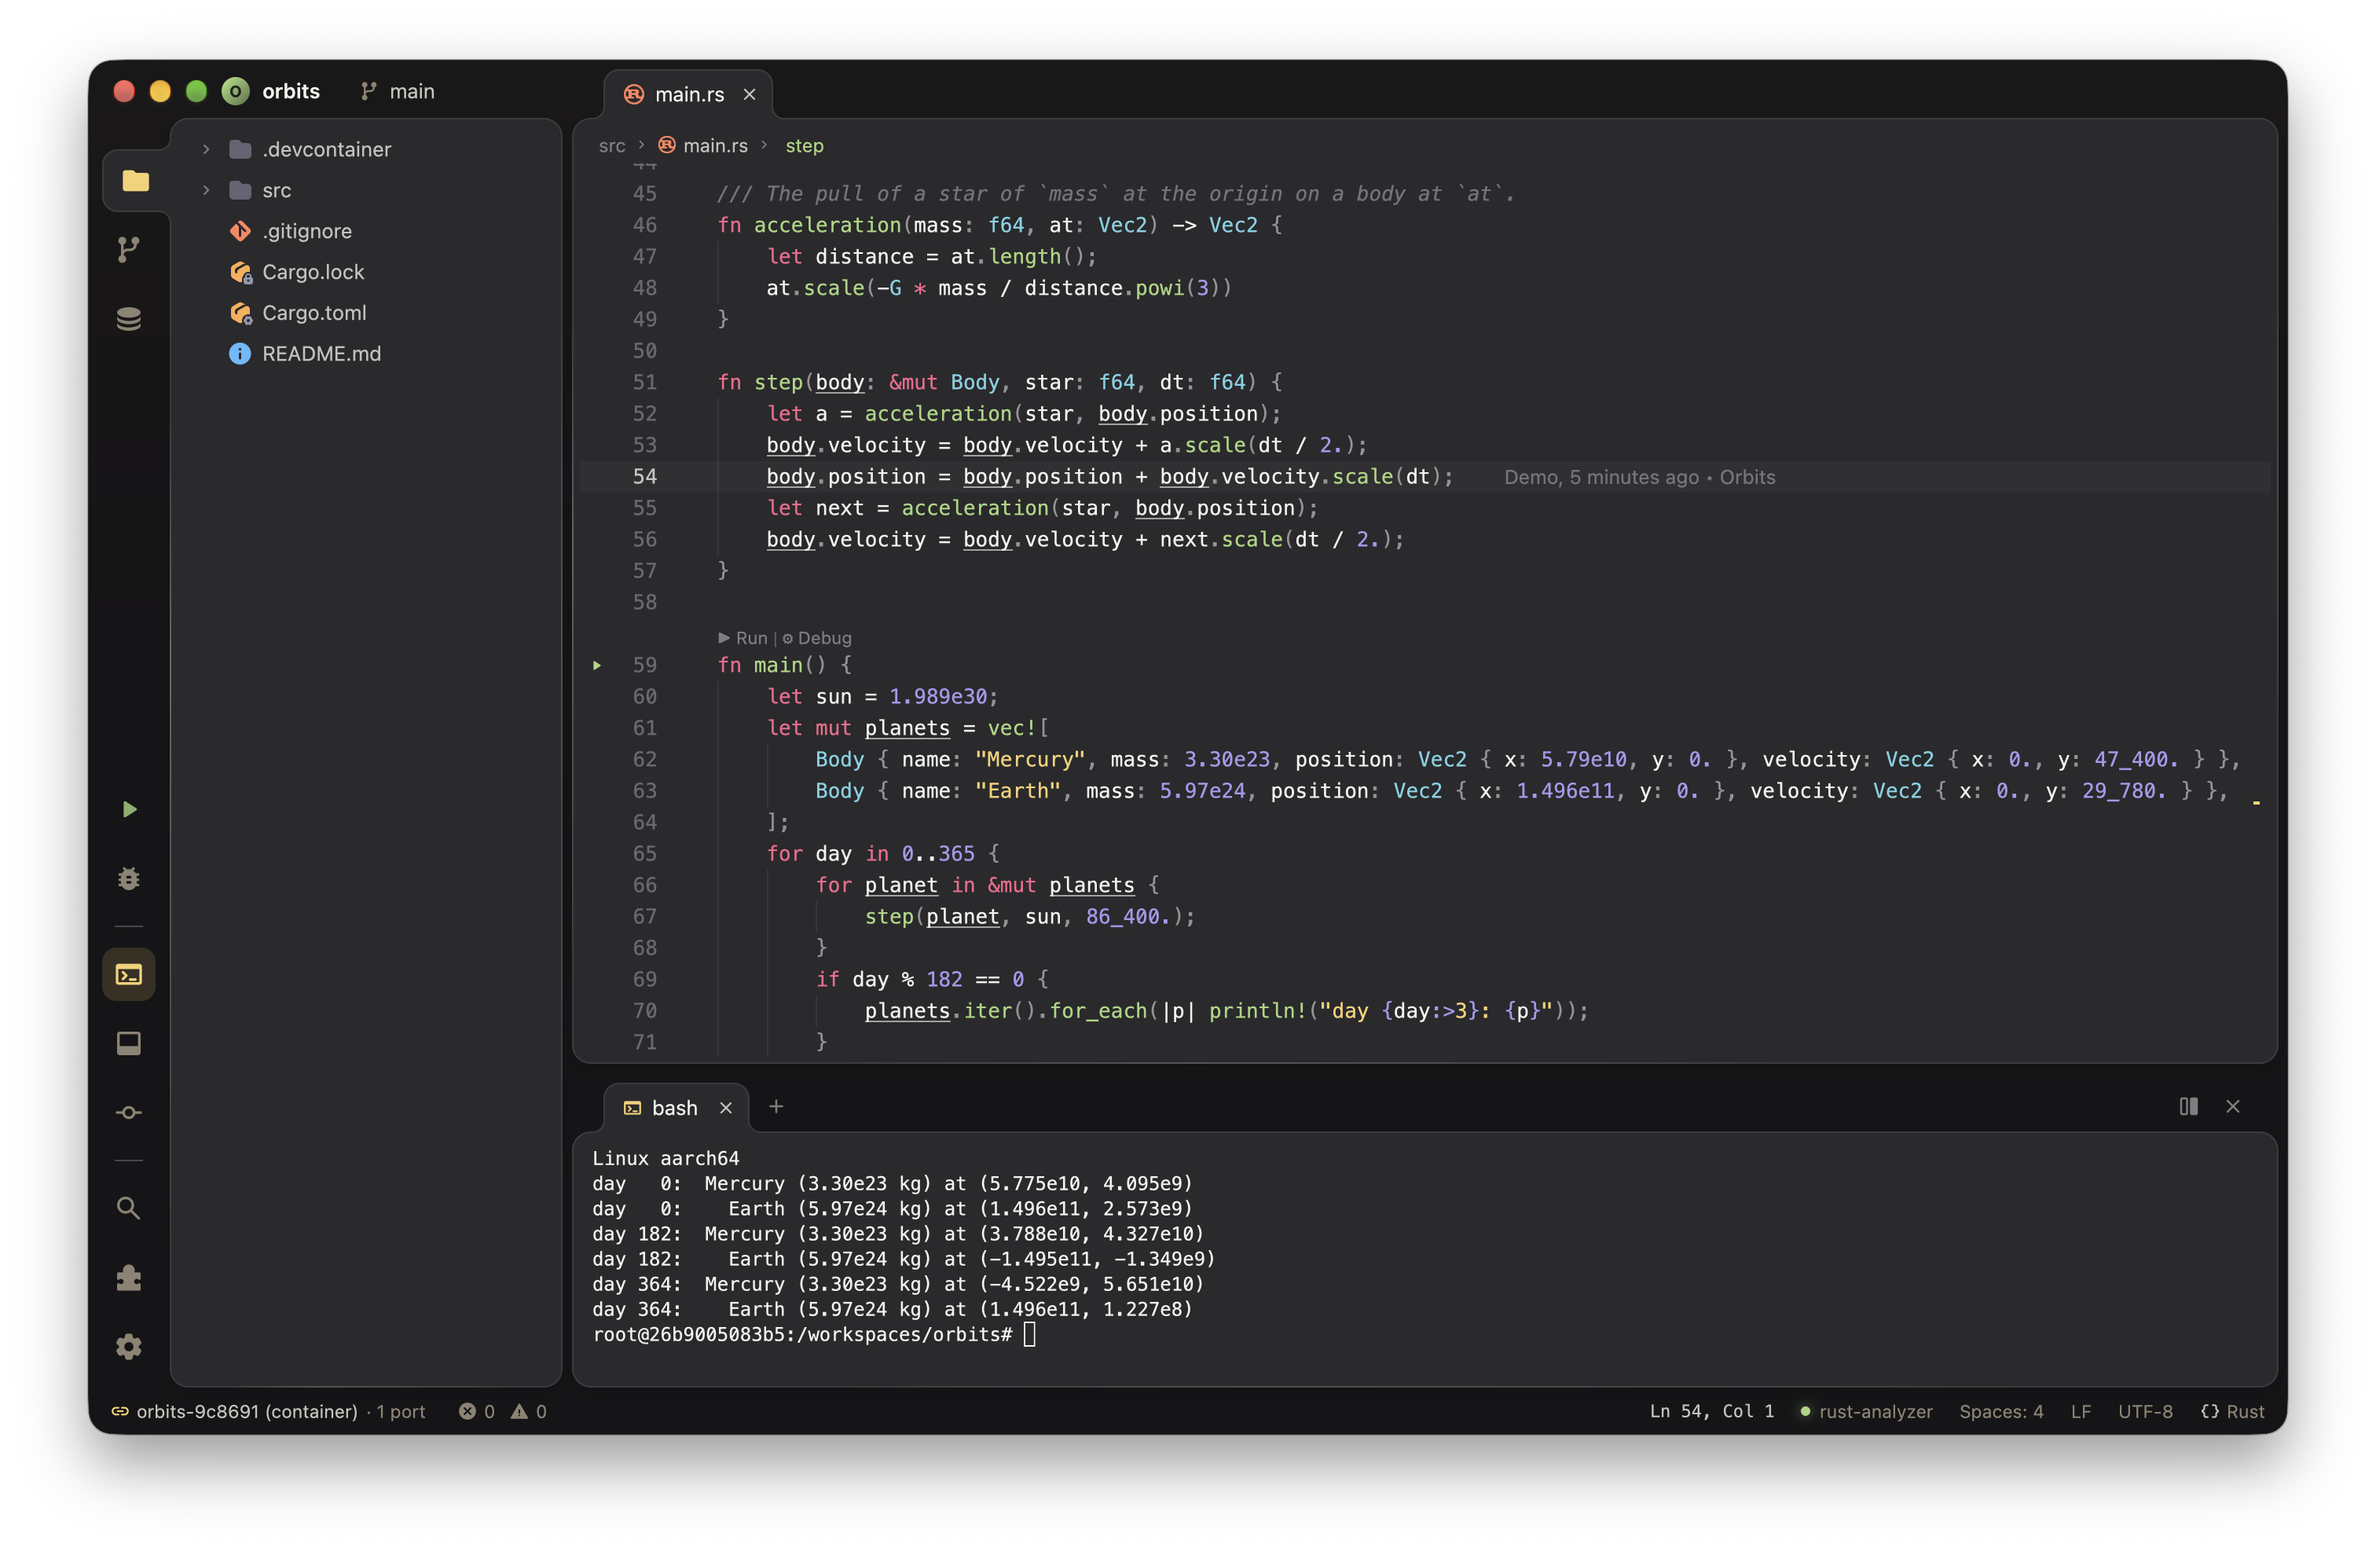
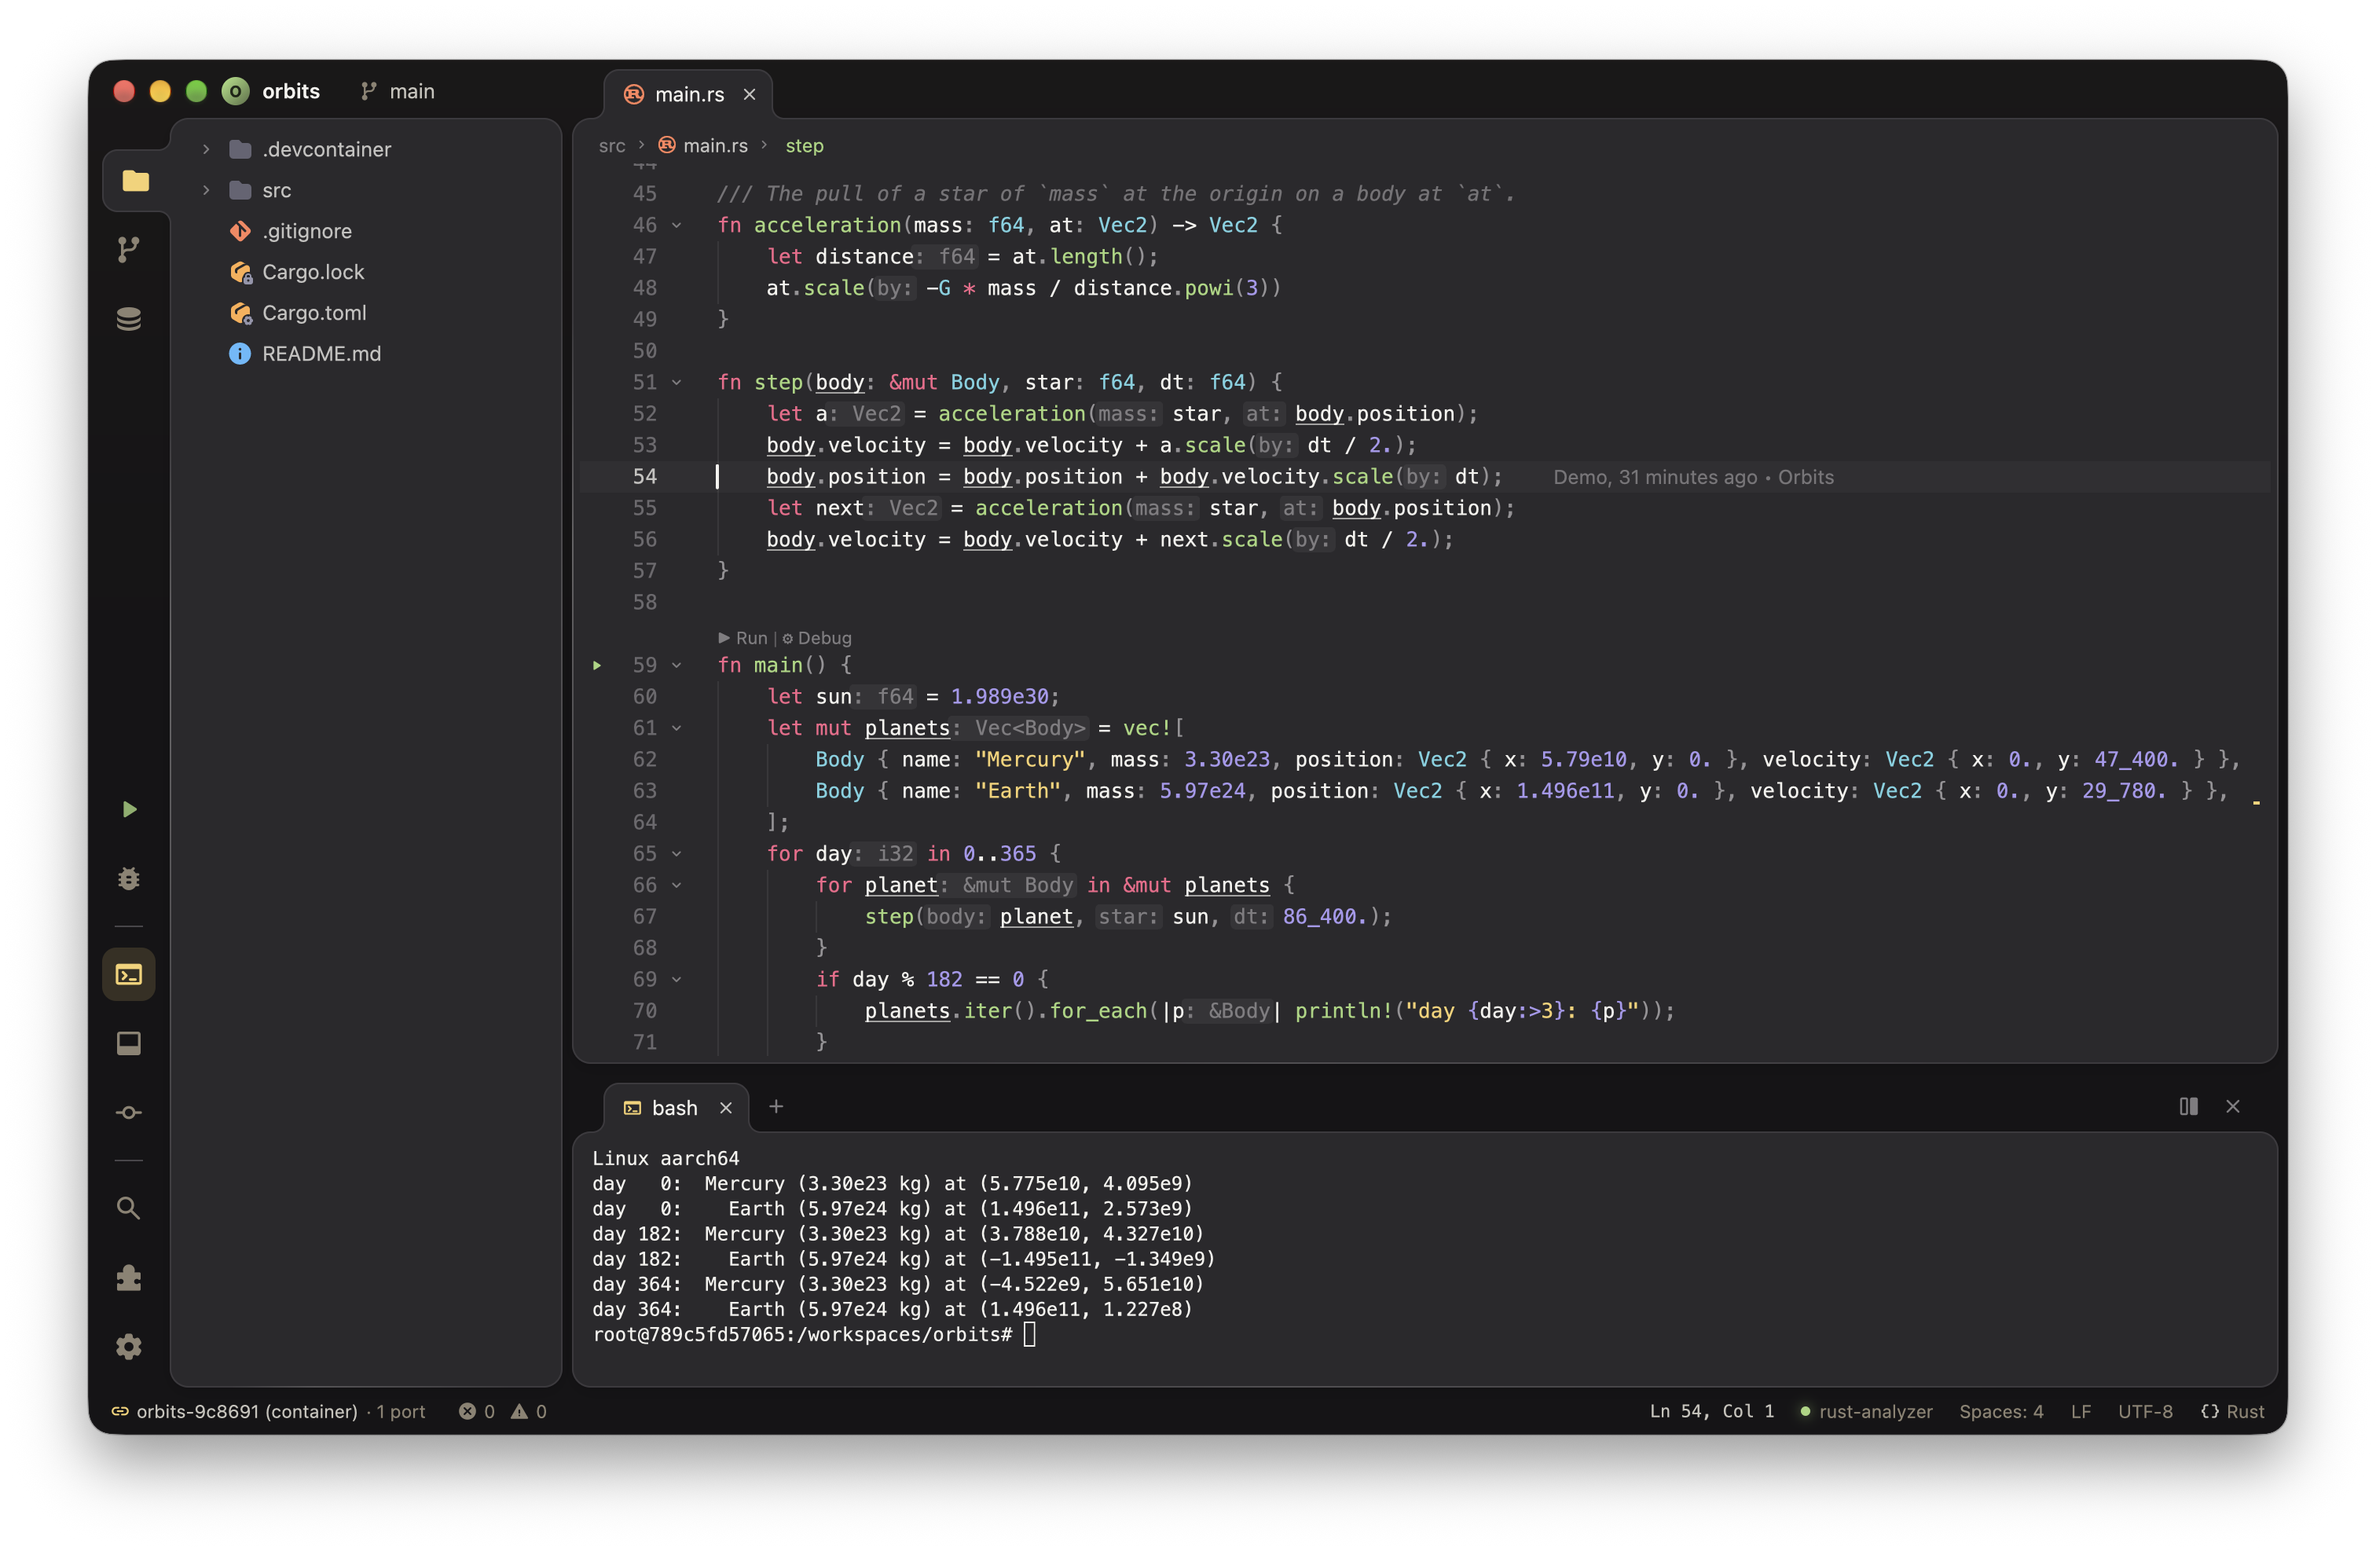
Docs: the remote development screenshot, with rust-analyzer's hints

diff --git a/docs/remote.md b/docs/remote.md
@@ -7,7 +7,7 @@ first time, does the work on that machine: it reads, writes, watches and searche
 files and runs its Git, language servers, terminals, tests and debugger with the tools installed
 there. There's no extension to add and nothing to install there by hand.
 
-![A Rust project in a dev container: rust-analyzer, Git blame and a bash terminal all running in the container, and a forwarded port in the status bar](screenshots/remote.png)
+![A Rust project in a dev container: rust-analyzer's hints, Git blame and a bash terminal all running in the container, and a forwarded port in the status bar](screenshots/remote.png)
 
 ## Connecting
 
